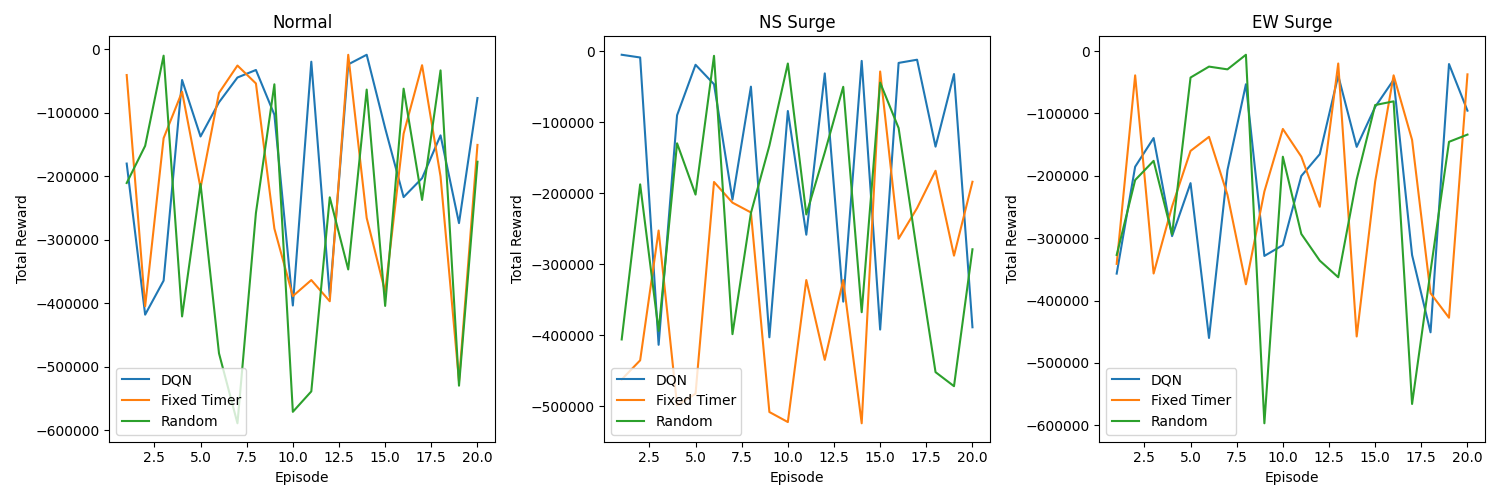
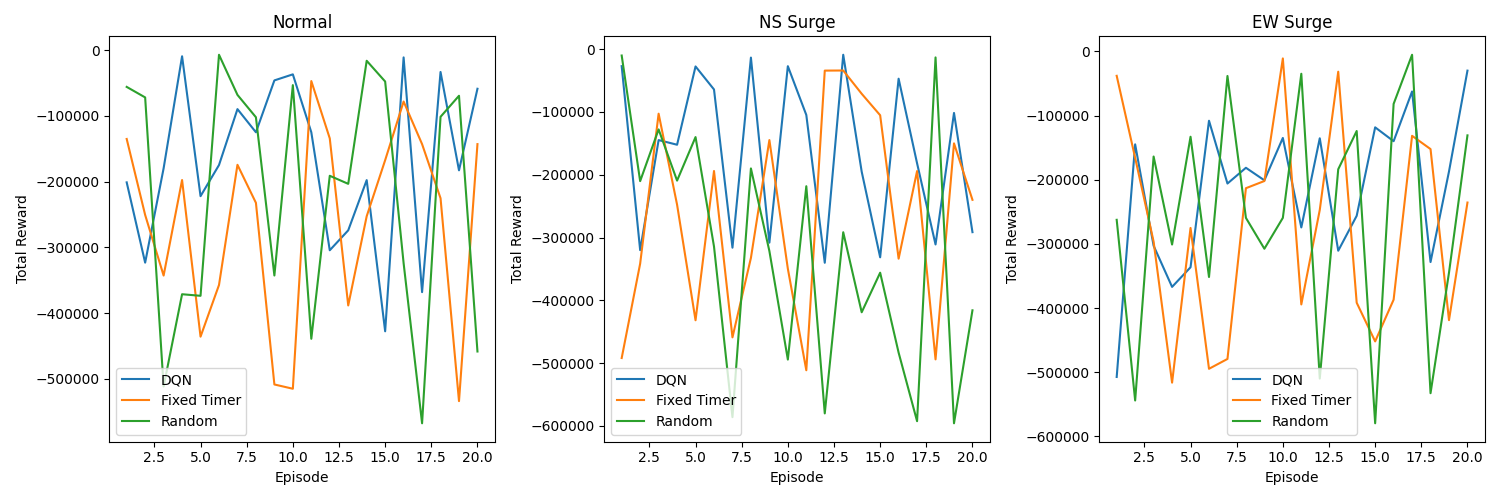
add NS/EW queue ratio observation, improved EW surge robustness

diff --git a/env/traffic_env.py b/env/traffic_env.py
@@ -18,20 +18,21 @@ class TrafficEnv(gym.Env):
 
         # defines what the agent is allowed to do
         # 'Discrete(2) indicates exactly 2 choices 
-        # -> 0 = keep N/S signal green
-        # -> 1 = keep E/W signal green
+        # - 0 = keep N/S signal green
+        # - 1 = keep E/W signal green
         self.action_space = gym.spaces.Discrete(2)
 
 
         # defines what the agent can see
-        # agent sees 5 numbers between 0-500
-        # -> N/S queue length
-        # -> E/W queue length
-        # -> current phase
-        # -> time spent in phase
-        # -> current timestep (step_count) - gives agent explicit time of day awareness
+        # agent sees 6 numbers between 0-500
+        # - N/S queue length
+        # - E/W queue length
+        # - current phase
+        # - time spent in phase
+        # - current timestep (step_count) - gives agent explicit time of day awareness
+        # - N/S to E/W queue ratio - gives agent explicit relative busyness awareness
         self.observation_space = gym.spaces.Box(
-            low=0, high=500, shape=(5,), dtype=np.float32
+            low=0, high=500, shape=(6,), dtype=np.float32
         )
 
 
@@ -59,6 +60,9 @@ class TrafficEnv(gym.Env):
         self.time_in_phase = 0
         self.step_count = 0
 
+        # calculates the ratio of cars in the N/S queue to the E/W queue
+        ratio = self.ns_queue / (self.ew_queue + 1)
+
 
         # randomizes arrival rate multipliers at the start of each episode
         # -> forces agent to learn a general policy across many traffic conditions
@@ -68,9 +72,9 @@ class TrafficEnv(gym.Env):
 
 
         # called so that the RL algorithm knows what the starting environment looks like
-        # packages all 5 state var's into a numpy array
+        # packages all 6 state var's into a numpy array
         # -> list of numbers that the agent can read
-        return np.array([self.ns_queue, self.ew_queue, self.current_phase, self.time_in_phase, self.step_count], dtype=np.float32), {}
+        return np.array([self.ns_queue, self.ew_queue, self.current_phase, self.time_in_phase, self.step_count, ratio], dtype=np.float32), {}
     
 
 
@@ -136,7 +140,6 @@ class TrafficEnv(gym.Env):
             self.time_in_phase += 1
 
 
-
         # calculates reward
         # penalizes agent for either
         # - any waiting car
@@ -150,17 +153,19 @@ class TrafficEnv(gym.Env):
         self.step_count += 1
 
 
-
         # end episode after 500 timesteps
         done = self.step_count >= 500
 
+    
+        # calculates the ratio of cars in the N/S queue to the E/W queue
+        ratio = self.ns_queue / (self.ew_queue + 1)
 
         # hands back 5 things to RL algorithm after every step
-        # -> the new observation (5 numbers [0-500]: ns_queue, we_queue, current_phase, time_in_phase, step_count)
+        # -> the new observation (6 numbers [0-500]: ns_queue, we_queue, current_phase, time_in_phase, step_count, ratio)
         # -> the reward the agent just earned
         # -> 'done' boolean - whether the episode is over
         # -> 'False' - required done-like flag called 'truncated' by Gymnasium (not currently needed)
         # -> '{}' empty dictionary required by Gymnasium for techical reasons
-        return np.array([self.ns_queue, self.ew_queue, self.current_phase, self.time_in_phase, self.step_count], dtype=np.float32), reward, done, False, {}    
+        return np.array([self.ns_queue, self.ew_queue, self.current_phase, self.time_in_phase, self.step_count, ratio], dtype=np.float32), reward, done, False, {}    
 
 